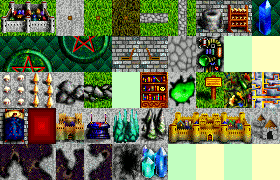
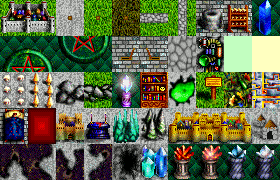
Add the original crystal soul monster graphics as terrain graphics - This is including the floor background; they're still available background-free as monster graphics, too.

Changed region(s): [[0.6, 0.7778, 1.0, 1.0], [0.4, 0.3889, 0.5143, 0.6111]]

diff --git a/src/scenedit/scen.keydlgs.cpp b/src/scenedit/scen.keydlgs.cpp
@@ -161,7 +161,7 @@ pic_num_t choose_graphic(short cur_choice,ePicType g_type,cDialog* parent) {
 	size_t total_pics = 0;
 	cPictChoice* pic_dlg = nullptr;
 	switch(g_type + PIC_PRESET) {
-		case PIC_TER: total_pics = 246; break;
+		case PIC_TER: total_pics = 250; break;
 		case PIC_TER_ANIM: total_pics = 16; break;
 		case PIC_DLOG: total_pics = 44; break;
 		case PIC_TALK: total_pics = 84; break;
